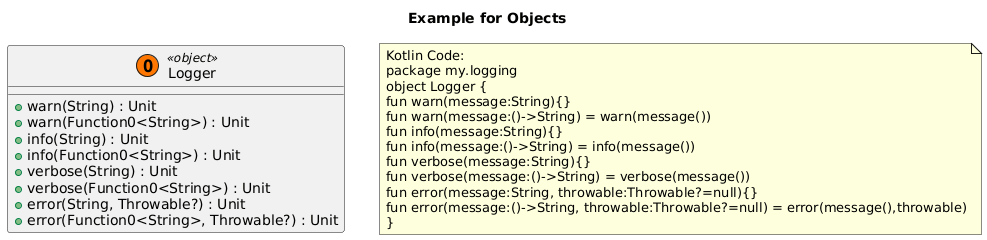
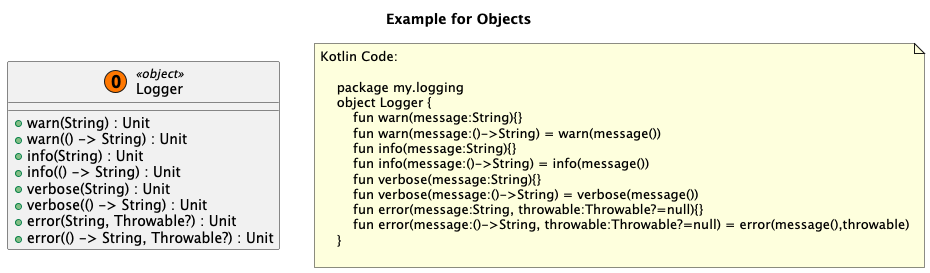
Add lambda function support

Changed region(s): [[0.0, 0.1458, 0.9978, 0.9917], [0.4054, 0.0292, 0.5925, 0.1167]]

diff --git a/pumlgenerator/src/test/kotlin/relation/PropertyRelationTest.kt b/pumlgenerator/src/test/kotlin/relation/PropertyRelationTest.kt
@@ -26,6 +26,7 @@ class PropertyRelationTest : CompilationTest() {
         fun findAThing() : OneThing
     }
     """
+
     val onethingCode = """
     package com.one
     import com.other.OtherThing
@@ -34,15 +35,40 @@ class PropertyRelationTest : CompilationTest() {
         val description : String
     }
     """
+
     val otherthingCode = """
     package com.other
     public data class OtherThing(val name:String, val isKnown:Boolean)
     """
+
     val thingBox = """
     package com.other
     import com.one.OneThing
     public class ThingBox(){
         val things : List<OneThing> = emptyList()
+    }
+    """
+
+    val classWithLambdaPrimitiveCode = """
+    package com.other
+    public class StringFactory(val name: String) {
+        val functionNothingToString: () -> String = { name }
+        val functionNothingToUnit: () -> Unit = {}
+        val functionStringToUnit: (String) -> Unit = {_ -> Unit}
+        val functionStringToString: (String) -> String = { _ -> name }
+        val functionStringStringToString: (String, String) -> String = { _, _ -> name }
+    }
+    """
+
+    val classWithLambdaCode = """
+    package com.other
+    import com.one.OneThing
+    public class OneThingFactory(val oneThing: OneThing) {
+        val functionNothingToOneThing: () -> OneThing = { oneThing }
+        val functionNothingToUnit: () -> Unit = {}
+        val functionOneThingToUnit: (OneThing) -> Unit = {_ -> Unit}
+        val functionOneThingToOneThing: (OneThing) -> OneThing = { _ -> oneThing }
+        val functionOneThingOneThingToOneThing: (OneThing, OneThing) -> OneThing = { _, _ -> oneThing }
     }
     """
 
@@ -205,5 +231,80 @@ class PropertyRelationTest : CompilationTest() {
         assertContains(generatedFile, "com_test_TestInterface ..* com_test_Color")
         assertContains(generatedFile, "brightness : StateFlow<Brightness>")
         assertContains(generatedFile, "com_test_TestInterface ..* com_test_Brightness")
+    }
+
+    @OptIn(ExperimentalCompilerApi::class)
+    @Test
+    fun `Test Lambda functions with primitive types are shown in a Kotlin Manner`() {
+        val kotlinSource = SourceFile.kotlin(
+            "CodeWithLambda.kt",
+            classWithLambdaPrimitiveCode
+        ).also { println(it) }
+        val compilation = newCompilation(DEFAULT_OPTIONS, listOf(kotlinSource))
+
+        val result = compilation.compile()
+        assertEquals(KotlinCompilation.ExitCode.OK, result.exitCode, result.messages)
+        assertTrue { result.sourcesGeneratedBySymbolProcessor.toList().isNotEmpty() }
+        val generatedFile = result.sourcesGeneratedBySymbolProcessor.first().readText()
+        assertContainsNot(generatedFile, "The following relations were added to the graph but are invalid")
+        assertContains(generatedFile, "@startuml")
+        assertContains(generatedFile, "@enduml")
+        assertContains(generatedFile, "functionNothingToString : () -> String")
+        assertContains(generatedFile, "functionNothingToUnit : () -> Unit")
+        assertContains(generatedFile, "functionStringToUnit : (String) -> Unit")
+        assertContains(generatedFile, "functionStringToString : (String) -> String")
+        assertContains(generatedFile, "functionStringStringToString : (String, String) -> String")
+    }
+
+    @OptIn(ExperimentalCompilerApi::class)
+    @Test
+    fun `Test Lambda functions with classes are shown in a Kotlin Manner`() {
+        val fileNames = listOf("Something.kt", "OneThing.kt", "OtherThing.kt", "ClassWithLambda.kt")
+        val codes = listOf(somethingCode, onethingCode, otherthingCode, classWithLambdaCode)
+        val files = fileNames.zip(codes).map { (name, code) ->
+            SourceFile.kotlin(name, code)
+        }.toList()
+
+        val compilation = newCompilation(DEFAULT_OPTIONS, files)
+
+        val result = compilation.compile()
+        assertEquals(KotlinCompilation.ExitCode.OK, result.exitCode, result.messages)
+        assertTrue { result.sourcesGeneratedBySymbolProcessor.toList().isNotEmpty() }
+        val generatedFile = result.sourcesGeneratedBySymbolProcessor.first().readText()
+        assertContainsNot(generatedFile, "The following relations were added to the graph but are invalid")
+        assertContains(generatedFile, "@startuml")
+        assertContains(generatedFile, "@enduml")
+        assertContains(generatedFile, "functionNothingToOneThing : () -> OneThing")
+        assertContains(generatedFile, "functionNothingToUnit : () -> Unit")
+        assertContains(generatedFile, "functionOneThingToUnit : (OneThing) -> Unit")
+        assertContains(generatedFile, "functionOneThingToOneThing : (OneThing) -> OneThing")
+        assertContains(generatedFile, "functionOneThingOneThingToOneThing : (OneThing, OneThing) -> OneThing")
+    }
+
+    @OptIn(ExperimentalCompilerApi::class)
+    @Test
+    fun `A function that returns a function is shown in a Kotlin Manner`() {
+        val kotlinSource = SourceFile.kotlin(
+            "CodeThatReturnsFunction.kt",
+            """
+         interface TextStrategy {
+             fun doMagic(magic: (String) -> String): () -> String
+             fun createTextAppendingFunction(): () -> String
+             fun createTextAppendingFunction(prefix: String): () -> String
+         }       
+            """.trimIndent()
+        )
+        val compilation = newCompilation(DEFAULT_OPTIONS, listOf(kotlinSource))
+
+        val result = compilation.compile()
+        assertEquals(KotlinCompilation.ExitCode.OK, result.exitCode, result.messages)
+        assertTrue { result.sourcesGeneratedBySymbolProcessor.toList().isNotEmpty() }
+        val generatedFile = result.sourcesGeneratedBySymbolProcessor.first().readText()
+        assertContainsNot(generatedFile, "The following relations were added to the graph but are invalid")
+        assertContains(generatedFile, "@startuml")
+        assertContains(generatedFile, "@enduml")
+        assertContains(generatedFile, "doMagic((String) -> String) : () -> String")
+        assertContains(generatedFile, "createTextAppendingFunction() : () -> String")
+        assertContains(generatedFile, "createTextAppendingFunction(String) : () -> String")
     }
 }

diff --git a/pumlgenerator/src/main/kotlin/uml/element/Type.kt b/pumlgenerator/src/main/kotlin/uml/element/Type.kt
@@ -15,6 +15,15 @@ val PRIMITIVE_NAMES: List<String> = listOf(
     "Byte",
 )
 
+class FunctionType(
+    originalKSType: KSType? = null,
+    val argumentTypes: List<Type> = emptyList(),
+    val returnType: Type? = null,
+) : Type(
+    originalKSType,
+    "${argumentTypes.joinToString(prefix = "(", postfix = ")", separator = ", ") { it.typeName }} -> ${(returnType ?: ReservedType(null, "Unit")).typeName}"
+)
+
 open class Type(
     val originalKSType: KSType? = null,
     val typeName: String
@@ -93,6 +102,14 @@ fun Type.flatResolve(options: Options, logger: KSPLogger? = null, level: Int = 0
 }
 
 fun KSType.toType(): Type {
+    if (isFunctionType) {
+        return FunctionType(
+            this,
+            arguments.dropLast(1).mapNotNull { it.type?.resolve()?.toType() },
+            arguments.lastOrNull()?.type?.resolve()?.toType()
+        )
+    }
+
     val genericTypes = this.arguments.mapNotNull { it.type?.resolve()?.toType() }
     val generic = if (genericTypes.isNotEmpty()) genericTypes.joinToString(prefix = "<", postfix = ">", separator = ",") { it.typeName } else ""
     val optionalIndicator = if (this.isMarkedNullable) {

diff --git a/CHANGELOG.md b/CHANGELOG.md
@@ -1,7 +1,8 @@
-## 0.0.7 - unreleased
+## 0.0.7 - 2025-10-12
 - Order of relations in generated `.puml` file will change, based on a refactoring
 - Added new option `puml.outputFileName`, to specify how the file should be named, that is generated in the folder of generated resources.
 - Added new option `puml.configFile`, to specify a config file that can be used to setup the configuration for the plantuml generation.
+- Added support for Lambda functions.
 
 
 ## 0.0.6 - 2025-09-27
